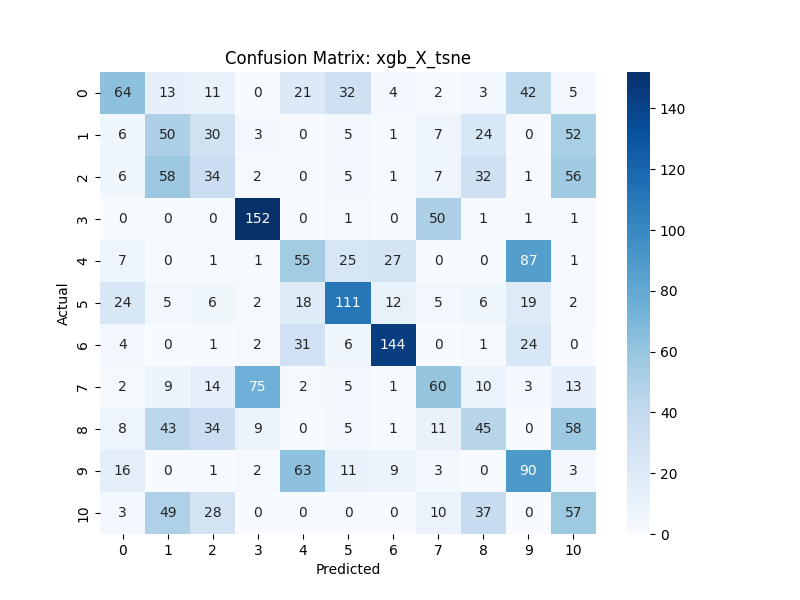
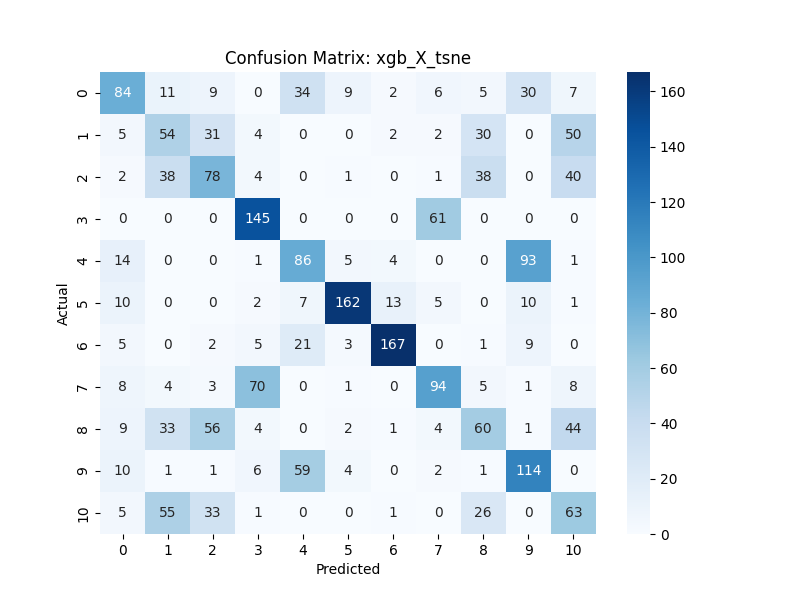
made changes to run tsne with 16d(warning very slow) and updated metrics/images

diff --git a/xgb/xgb.py b/xgb/xgb.py
@@ -44,12 +44,17 @@ X = scaler.fit_transform(X)
 pca = PCA(n_components=16)
 X_pca = pca.fit_transform(X)
 
-tsne = TSNE(n_components=2)
-X_tsne = tsne.fit_transform(X)
+print("starting Tsne")
+tsne = TSNE(n_components=16, method="exact", n_iter=250, verbose=2)
+X_tsne = tsne.fit_transform(X_pca)
 
-Xs = {"X": X, "X_pca": X_pca, "X_tsne": X_tsne}
+Xs = {
+       # "X": X,
+       # "X_pca": X_pca,
+        "X_tsne": X_tsne}
 
 for n, x in Xs.items():
+    print(n)
     xgb = XGBClassifier()
     X_train, X_test, y_train, y_test = train_test_split(x, y, test_size=0.2, random_state=42)
 
